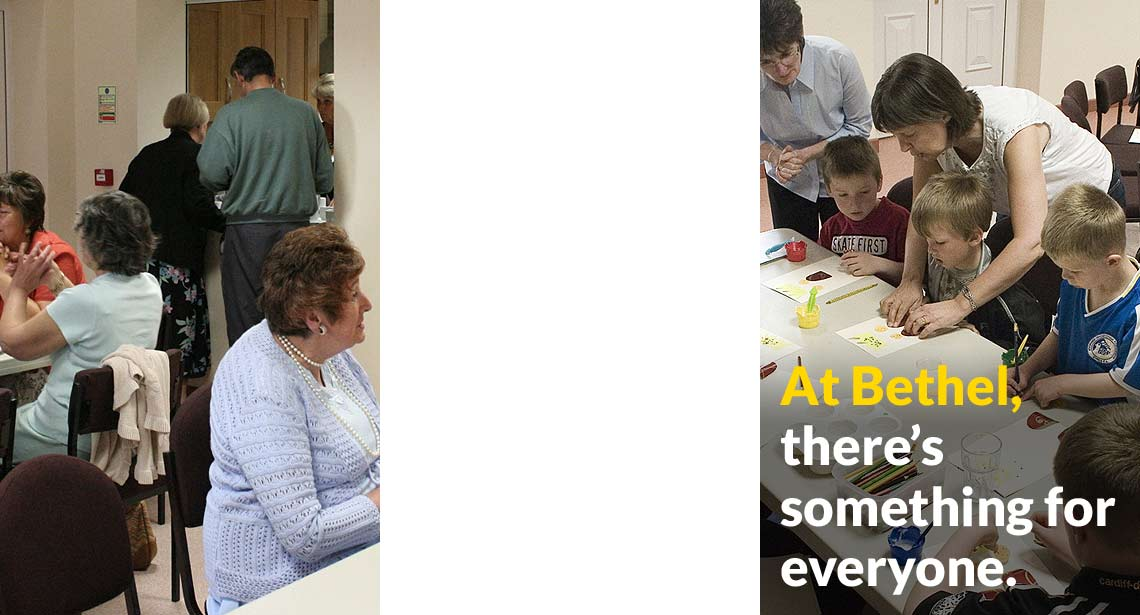
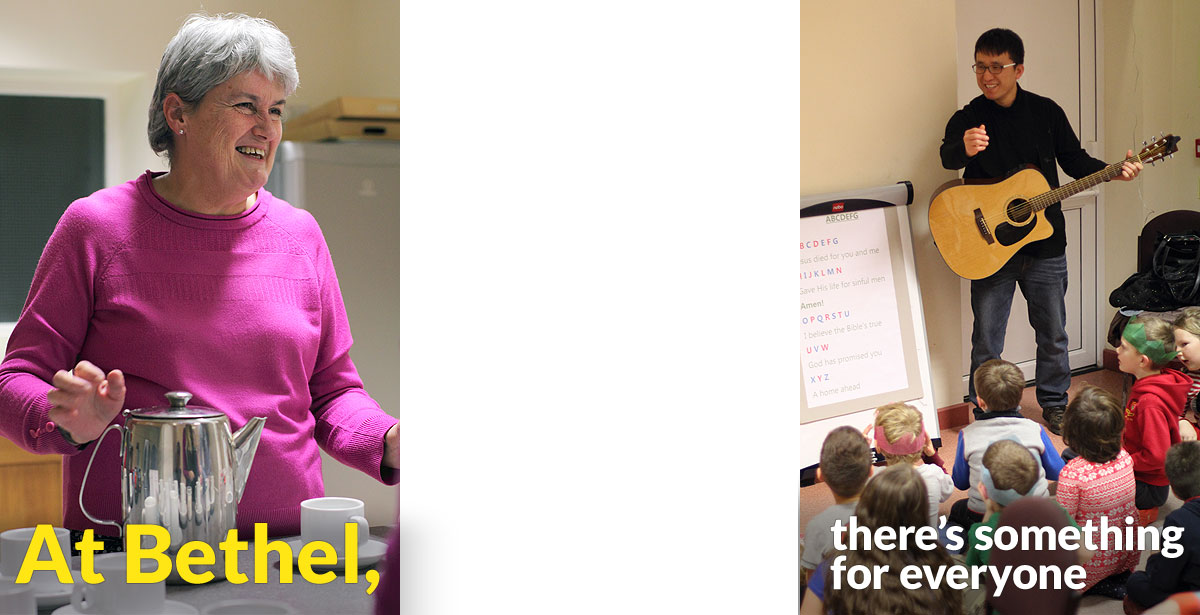
Updating front page images

diff --git a/js/frontend.js b/js/frontend.js
@@ -2,7 +2,7 @@ jQuery(function($) {
     /**
     * Interactive menu on home page
     */
-    $('body.home .nav-primary .genesis-nav-menu > .menu-item > .sub-menu').height(615);
+    $('body.home .nav-primary .genesis-nav-menu > .menu-item > .sub-menu').height(614);
     $('body.home .nav-primary .genesis-nav-menu > .menu-item:nth-child(2)').hover(
         function() {
             $('main').css('background-image', 'url(\''+bethel.siteurl+'/wp-content/themes/bethel-clydach/images/something-for-everyone.jpg\')')

diff --git a/front-page.php b/front-page.php
@@ -12,11 +12,11 @@ remove_action('genesis_loop', 'genesis_do_loop'); // Remove standard page elemen
 add_action('genesis_loop', 'bethel_do_home_page'); // Add in our elements
 
 function bethel_do_home_page() {
-	echo '<img class="home-main" src="'.get_stylesheet_directory_uri().'/images/people.jpg" height="615" width="1140"/>';
+	echo '<img class="home-main" src="'.get_stylesheet_directory_uri().'/images/people.jpg" height="615" width="1200"/>';
     //Add hidden menu images to ensure they're cached
-	echo '<img style="display:none" class="home-main-a" src="'.get_stylesheet_directory_uri().'/images/everyone-welcome.jpg" height="615" width="1140"/>';
-	echo '<img style="display:none" class="home-main-b" src="'.get_stylesheet_directory_uri().'/images/something-for-everyone.jpg" height="615" width="1140"/>';
-	echo '<img style="display:none" class="home-main-c" src="'.get_stylesheet_directory_uri().'/images/ordinary-people.jpg" height="615" width="1140"/>';
+	echo '<img style="display:none" class="home-main-a" src="'.get_stylesheet_directory_uri().'/images/everyone-welcome.jpg" height="615" width="1200"/>';
+	echo '<img style="display:none" class="home-main-b" src="'.get_stylesheet_directory_uri().'/images/something-for-everyone.jpg" height="615" width="1200"/>';
+	echo '<img style="display:none" class="home-main-c" src="'.get_stylesheet_directory_uri().'/images/ordinary-people.jpg" height="615" width="1200"/>';
 }
 
 genesis();
